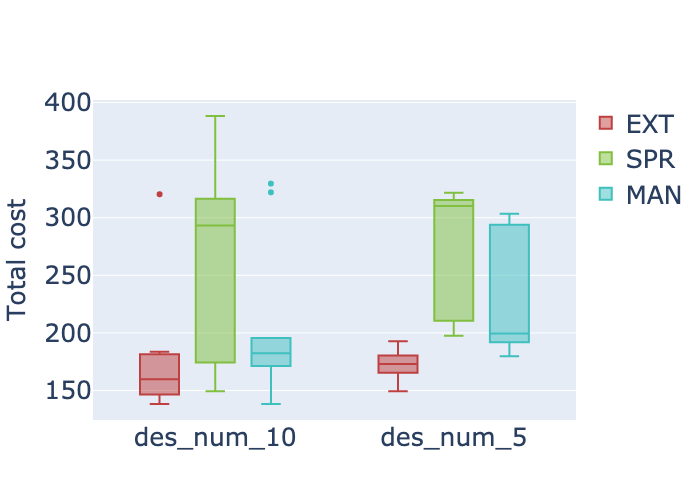
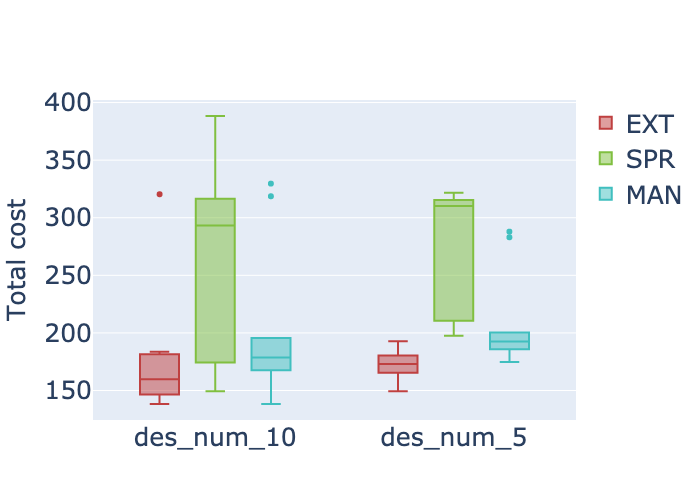
update compare table

Changed region(s): [[0.69, 0.42, 0.78, 0.75], [0.36, 0.69, 0.42, 0.75]]

diff --git a/compare_figure.py b/compare_figure.py
@@ -60,5 +60,13 @@ if __name__ == "__main__":
         output_full = json.load(json_file)
       
     out_ = output_full['whether3d_True']['class_num_8']['box_num_10']
-
+    
+    #get best
+    Temp_num = len(out_[list(out_)[0]][0])
+    for des in out_:
+        read = out_[des]
+        man = []
+        for i in range(Temp_num):
+            man.append(min(read[2][i],read[3][i],read[4][i],read[5][i],read[6][i]))
+        out_[des] = [read[0],read[1],man]
     dict2figure_compare(out_)
